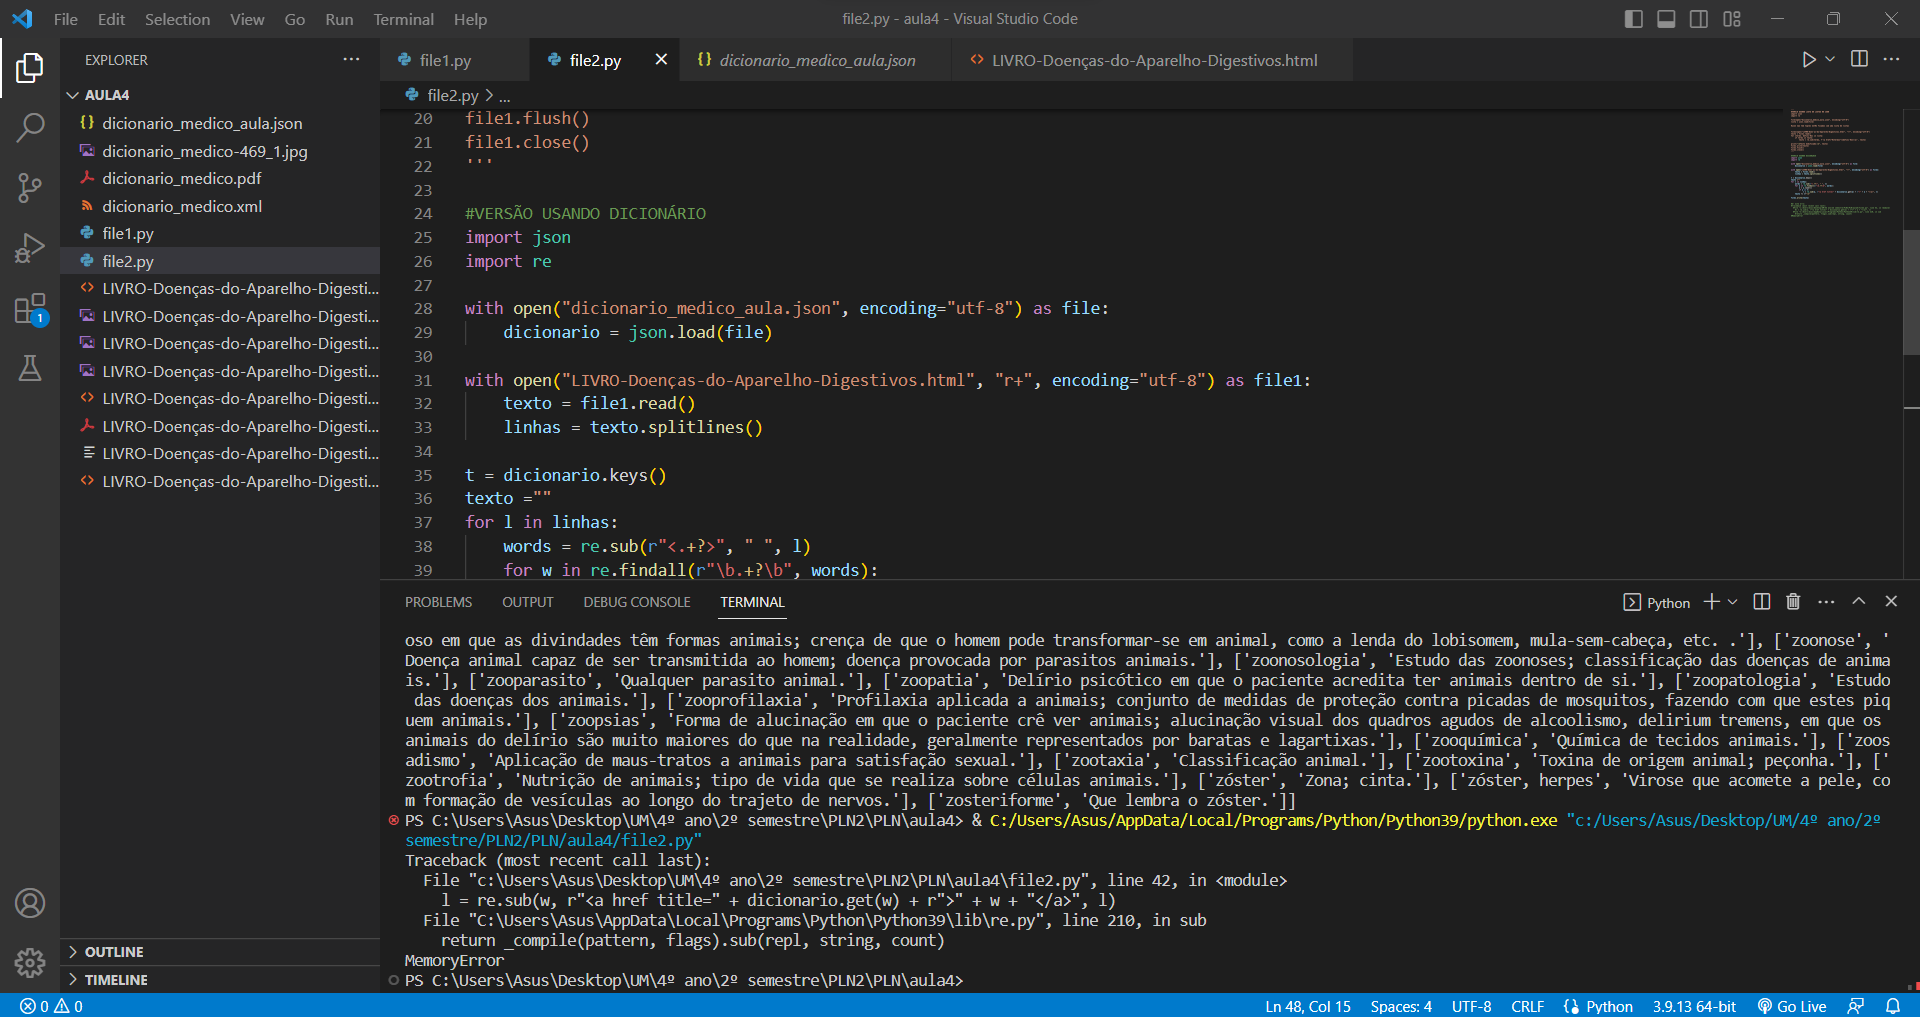
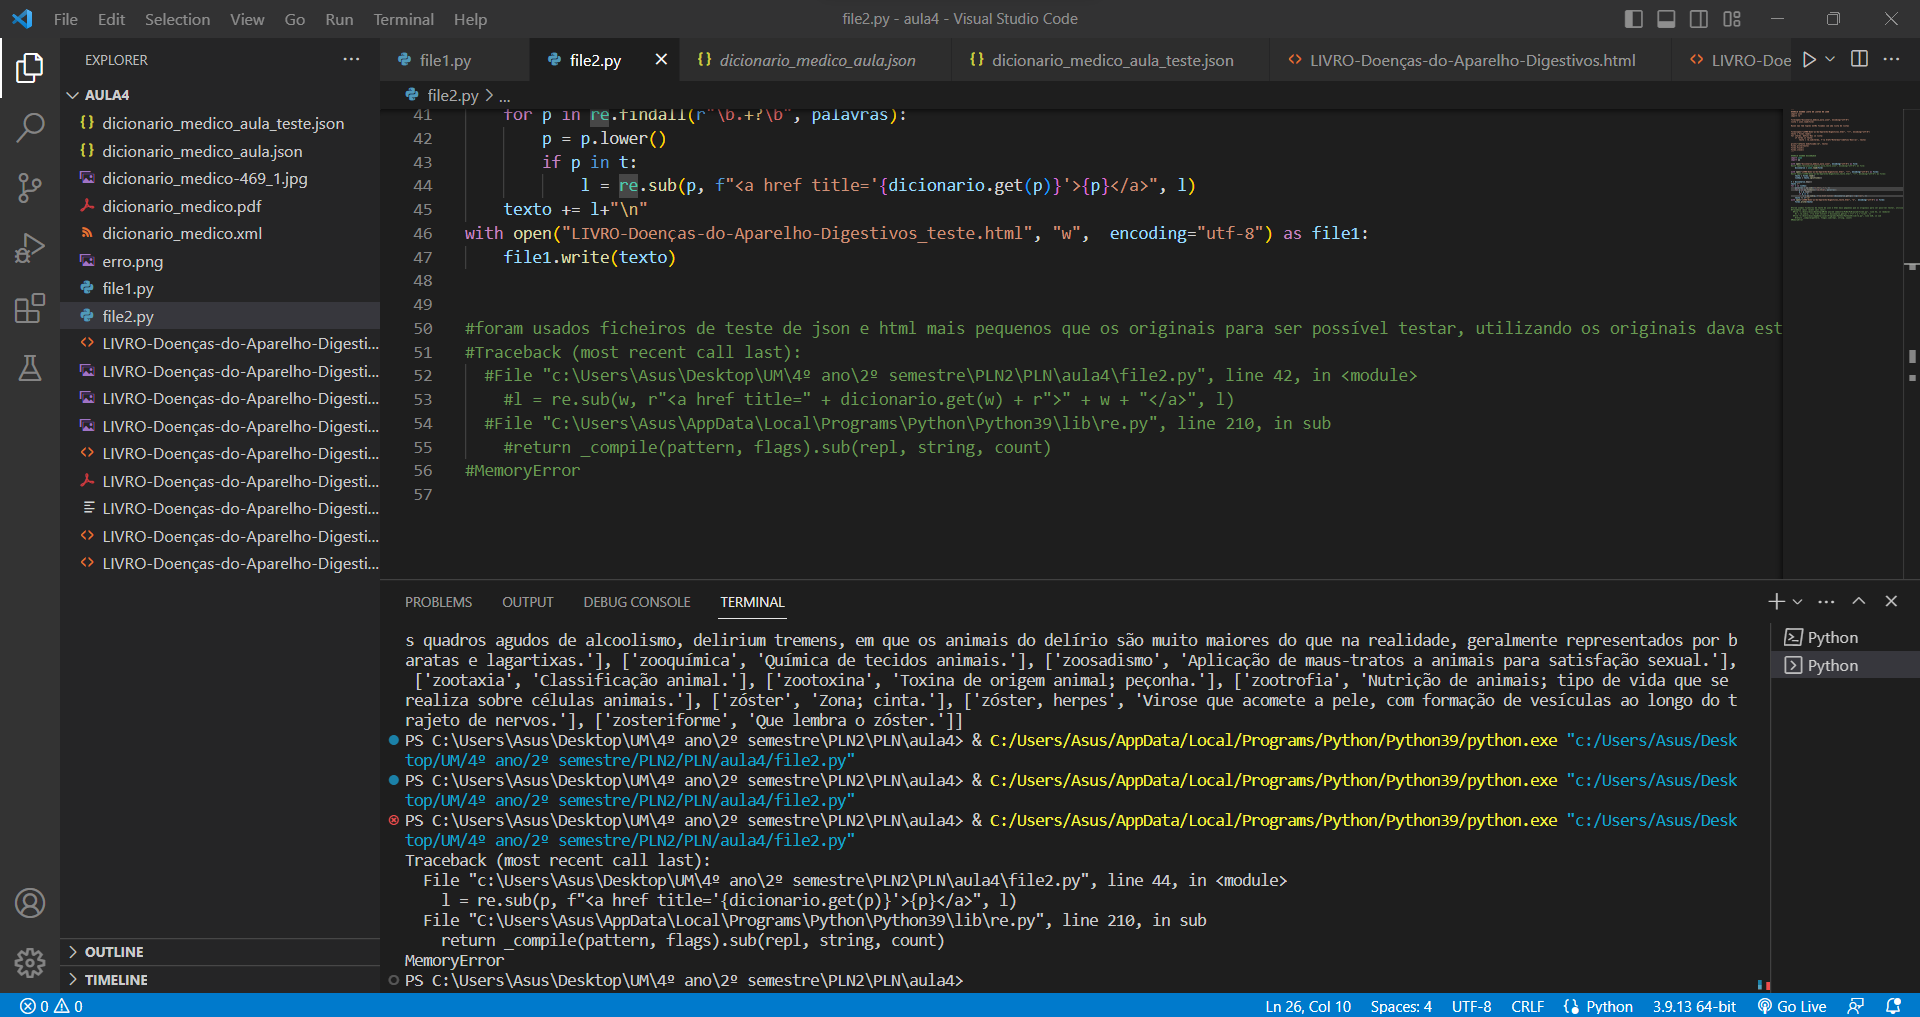
tpc4

diff --git a/aula4/LIVRO-Doenças-do-Aparelho-Digestivos_teste.html b/aula4/LIVRO-Doenças-do-Aparelho-Digestivos_teste.html
@@ -1,0 +1,165 @@
+<!DOCTYPE html><html>
+<head>
+<title></title>
+<style type="text/css">
+<!--
+.xflip {
+    -moz-transform: scaleX(-1);
+    -webkit-transform: scaleX(-1);
+    -o-transform: scaleX(-1);
+    transform: scaleX(-1);
+    filter: fliph;
+}
+.yflip {
+    -moz-transform: scaleY(-1);
+    -webkit-transform: scaleY(-1);
+    -o-transform: scaleY(-1);
+    transform: scaleY(-1);
+    filter: flipv;
+}
+.xyflip {
+    -moz-transform: scaleX(-1) scaleY(-1);
+    -webkit-transform: scaleX(-1) scaleY(-1);
+    -o-transform: scaleX(-1) scaleY(-1);
+    transform: scaleX(-1) scaleY(-1);
+    filter: fliph + flipv;
+}
+-->
+</style>
+</head>
+<body>
+<a name=1></a><img src="LIVRO-Doenças-do-Aparelho-Digestivo-1_1.jpg"/><br/>
+<img src="LIVRO-Doenças-do-Aparelho-Digestivo-1_2.jpg"/><br/>
+<hr/>
+<a name=2></a><b>DOENÇAS</b><br/>
+<b>DO</b><br/>
+<b>APARELHO DIGESTIVO</b><br/>
+2ª EDIÇÃO<br/>
+DINIZ DE FREITAS<br/>
+<i>Professor Catedrático de Gastrenterologia da</i><br/>
+<i>Faculdade de Medicina de Coimbra</i><br/>
+<i>Director do Serviço de Gastrenterologia dos</i><br/>
+<i>Hospitais da Universidade de Coimbra</i><br/>
+<i>Director do Centro de Gastrenterologia&#160;</i><br/>
+<i>da Universidade de Coimbra</i><br/>
+Coimbra 2002<br/>
+<hr/>
+<a name=3></a><b>Edição e Distribuição<br/></b>AstraZeneca - Produtos Farmacêuticos Lda<br/>Rua Humberto Madeira 7 -&#160;Valejas<br/>2745-663 Barcarena<br/>Telf 21 434 61 00 &#160;Fax 21 434 61 92<br/>
+<b>Impressão e&#160;Acabamento&#160;</b>- Rabiscos de Luz<br/>
+<hr/>
+<a name=4></a>A&#160;minha Mulher e a meus Filhos&#160;<br/>
+A&#160;minha Família<br/>
+A&#160;meus Mestres<br/>
+Ao&#160;Serviço de Gastrenterologia&#160;<br/>
+dos Hospitais da Universidade de Coimbra<br/>
+A&#160;meus Discípulos&#160;<br/>
+A&#160;meus Condiscípulos e&#160;Amigos<br/>
+<b>3</b><br/>
+<hr/>
+<a name=5></a><i>Índice</i><br/>
+<b>ÍNDICE</b><br/>
+Prefácio&#160;. . . . . . . . . . . . . . . . . . . . . . . . . . . . . . . . . . . . . . . . . . . . . . . . . . 9<br/>Introdução&#160;&#160;&#160;. . . . . . . . . . . . . . . . . . . . . . . . . . . . . . . . . . . . . . . . . . . . . . 11<br/>
+<b>SECÇÃO I&#160;</b><br/>
+<b>ESÓFAGO</b><br/>
+<b>CAPÍTULO I</b><br/>
+Pertubações&#160;Motoras&#160;do&#160;Esófago&#160;&#160;&#160;. . . . . . . . . . . . . . . . . . . . . . . . . . . . . . . . 15<br/>
+<b>CAPÍTULO II</b><br/>
+Doença&#160;do&#160;Refluxo&#160;Gastro-Esofágico&#160;&#160;&#160;. . . . . . . . . . . . . . . . . . . . . . . . . . . . . . 31&#160;&#160;<br/>
+<b>CAPÍTULO III</b><br/>
+Tumores&#160;do&#160;Esófago&#160;&#160;&#160;. . . . . . . . . . . . . . . . . . . . . . . . . . . . . . . . . . . . . . . . . 73<br/>
+<b>CAPÍTULO IV</b><br/>
+Outras&#160;Doenças&#160;do&#160;Esófago&#160;&#160;&#160;. . . . . . . . . . . . . . . . . . . . . . . . . . . . . . . . . . . . 93<br/>
+<b>SECÇÃO II&#160;</b><br/>
+<b>ESTÔMAGO E DUODENO</b><br/>
+<b>CAPÍTULO V</b><br/>
+Infecção&#160;pelo&#160;Helicobacter&#160;Pylori&#160;&#160;. . . . . . . . . . . . . . . . . . . . . . . . . . . . . . . . 105<br/>
+<b>CAPÍTULO VI</b><br/>
+Gastrite&#160;&#160;&#160;. . . . . . . . . . . . . . . . . . . . . . . . . . . . . . . . . . . . . . . . . . . . . . . . . . 131<br/>
+<b>CAPÍTULO VII</b><br/>
+Dispepsia&#160;&#160;&#160;. . . . . . . . . . . . . . . . . . . . . . . . . . . . . . . . . . . . . . . . . . . . . . . . 153<br/>
+<b>CAPÍTULO VIII</b><br/>
+Úlcera&#160;Péptica&#160;&#160;&#160;. . . . . . . . . . . . . . . . . . . . . . . . . . . . . . . . . . . . . . . . . . . . . 179<br/>
+<b>CAPÍTULO IX</b><br/>
+Tumores&#160;do&#160;Estômago&#160;&#160;&#160;. . . . . . . . . . . . . . . . . . . . . . . . . . . . . . . . . . . . . . . 215<br/>
+<b>5</b><br/>
+<hr/>
+<a name=6></a><i>Doenças do Aparelho Digestivo</i><br/>
+<b>SECÇÃO III</b><br/>
+<b>INTESTINO</b><br/>
+<b>CAPÍTULO X</b><br/>
+Síndromes&#160;de&#160;Má&#160;Absorção&#160;&#160;&#160;. . . . . . . . . . . . . . . . . . . . . . . . . . . . . . . . . . . 245<br/>
+<b>CAPÍTULO XI</b><br/>
+Doença&#160;Celíaca&#160;&#160;&#160;. . . . . . . . . . . . . . . . . . . . . . . . . . . . . . . . . . . . . . . . . . . . 265<br/>
+<b>CAPÍTULO XII</b><br/>
+Intolerância&#160;à&#160;Lactose&#160;&#160;&#160;. . . . . . . . . . . . . . . . . . . . . . . . . . . . . . . . . . . . . . . 281<br/>
+<b>CAPÍTULO XIII</b><br/>
+Infecções&#160;Intestinais&#160;&#160;&#160;. . . . . . . . . . . . . . . . . . . . . . . . . . . . . . . . . . . . . . . . 287<br/>
+<b>CAPÍTULO XIV</b><br/>
+Parasitoses&#160;Intestinais&#160;&#160;&#160;. . . . . . . . . . . . . . . . . . . . . . . . . . . . . . . . . . . . . . . 315<br/>
+<b>CAPÍTULO XV</b><br/>
+Isquémia&#160;Intestinal&#160;&#160;&#160;. . . . . . . . . . . . . . . . . . . . . . . . . . . . . . . . . . . . . . . . . 331<br/>
+<b>CAPÍTULO XVI</b><br/>
+Doença&#160;Inflamatória&#160;Intestinal&#160;&#160;&#160;. . . . . . . . . . . . . . . . . . . . . . . . . . . . . . . . . 347<br/>
+<b>CAPÍTULO XVII</b><br/>
+Síndrome&#160;do&#160;Cólon&#160;Irritável&#160;&#160;&#160;. . . . . . . . . . . . . . . . . . . . . . . . . . . . . . . . . . . 387<br/>
+<b>CAPÍTULO XVIII</b><br/>
+Doença&#160;Diverticular&#160;do&#160;Colón&#160;&#160;&#160;. . . . . . . . . . . . . . . . . . . . . . . . . . . . . . . . . . 407<br/>
+<b>CAPÍTULO XIX</b><br/>
+Pólipos&#160;e&#160;Polipose&#160;do&#160;Cólon&#160;e&#160;Recto&#160;&#160;. . . . . . . . . . . . . . . . . . . . . . . . . . . . . 419<br/>
+<b>CAPÍTULO XX</b><br/>
+Tumores&#160;do&#160;Cólon&#160;e&#160;Recto&#160;&#160;&#160;. . . . . . . . . . . . . . . . . . . . . . . . . . . . . . . . . . . . 435<br/>
+<b>6</b><br/>
+<hr/>
+<a name=7></a><i>Índice</i><br/>
+<b>SECÇÃO IV</b><br/>
+<b>FÍGADO</b><br/>
+<b>CAPÍTULO XXI</b><br/>
+Insuficiência&#160;Hepática&#160;Aguda&#160;&#160;&#160;. . . . . . . . . . . . . . . . . . . . . . . . . . . . . . . . . . 463<br/>
+<b>CAPÍTULO XXII</b><br/>
+Hepatite&#160;Viral&#160;Aguda&#160;&#160;&#160;. . . . . . . . . . . . . . . . . . . . . . . . . . . . . . . . . . . . . . . . 477<br/>
+<b>CAPÍTULO XXIII</b><br/>
+Hepatite&#160;Viral&#160;Crónica&#160;&#160;&#160;. . . . . . . . . . . . . . . . . . . . . . . . . . . . . . . . . . . . . . . 495<br/>
+<b>CAPÍTULO XXIV</b><br/>
+Doença&#160;Hepática&#160;Alcoólica&#160;&#160;&#160;. . . . . . . . . . . . . . . . . . . . . . . . . . . . . . . . . . . . 509<br/>
+<b>CAPÍTULO XXV</b><br/>
+Hepatotoxicidade&#160;por&#160;Drogas&#160;&#160;&#160;. . . . . . . . . . . . . . . . . . . . . . . . . . . . . . . . . . 525<br/>
+<b>CAPÍTULO XXVI</b><br/>
+Cirrose&#160;Hepática&#160;&#160;&#160;. . . . . . . . . . . . . . . . . . . . . . . . . . . . . . . . . . . . . . . . . . . 537<br/>
+<b>CAPÍTULO XXVII</b><br/>
+Hipertensão&#160;Portal&#160;&#160;&#160;. . . . . . . . . . . . . . . . . . . . . . . . . . . . . . . . . . . . . . . . . . 551<br/>
+<b>CAPÍTULO XXVIII</b><br/>
+Ascite&#160;e&#160;Peritonite&#160;Bacteriana&#160;Espontânea&#160;&#160;&#160;. . . . . . . . . . . . . . . . . . . . . . . . . 575<br/>
+<b>CAPÍTULO XXIX</b><br/>
+Complicações&#160;Sistémicas&#160;da&#160;Doença&#160;Hepática&#160;&#160;&#160;. . . . . . . . . . . . . . . . . . . . . . 593<br/>
+<b>CAPÍTULO XXX</b><br/>
+Doenças&#160;Hepáticas&#160;Auto-Imunes&#160;&#160;&#160;. . . . . . . . . . . . . . . . . . . . . . . . . . . . . . . . 619<br/>
+<b>CAPÍTULO XXXI</b><br/>
+Doenças&#160;Metabólicas&#160;e&#160;Genéticas&#160;&#160;&#160;. . . . . . . . . . . . . . . . . . . . . . . . . . . . . . . 647<br/>
+<b>CAPÍTULO XXXII</b><br/>
+Tumores&#160;Hépaticos&#160;&#160;&#160;. . . . . . . . . . . . . . . . . . . . . . . . . . . . . . . . . . . . . . . . . 665<br/>
+<b>7</b><br/>
+<hr/>
+<a name=8></a><i>Doenças do Aparelho Digestivo</i><br/>
+<b>SECÇÃO V&#160;</b><br/>
+<b>VESÍCULA&#160;E&#160;VIAS&#160;BILIARES&#160;</b><br/>
+<b>CAPÍTULO XXXIII</b><br/>
+Litíase&#160;Biliar&#160;&#160;&#160;. . . . . . . . . . . . . . . . . . . . . . . . . . . . . . . . . . . . . . . . . . . . . . 685<br/>
+<b>CAPÍTULO XXXIV</b><br/>
+Tumores&#160;da&#160;Vesícula,&#160;dos&#160;Ductos&#160;Biliares&#160;e&#160;da&#160;Ampola&#160;de&#160;Vater&#160;&#160;. . . . . . . . . . 703<br/>
+<b>SECÇÃO VI&#160;</b><br/>
+<b>PÂNCREAS</b><br/>
+<b>CAPÍTULO XXXVI</b><br/>
+Pancreatite&#160;Aguda&#160;&#160;&#160;. . . . . . . . . . . . . . . . . . . . . . . . . . . . . . . . . . . . . . . . . . 717<br/>
+<b>CAPÍTULO XXXVI</b><br/>
+Pancreatite&#160;Crónica&#160;&#160;&#160;. . . . . . . . . . . . . . . . . . . . . . . . . . . . . . . . . . . . . . . . . 753<br/>
+<b>CAPÍTULO XXXVII</b><br/>
+Tumores&#160;do&#160;Pâncreas&#160;&#160;&#160;. . . . . . . . . . . . . . . . . . . . . . . . . . . . . . . . . . . . . . . 773<br/>
+<b>8</b><br/>
+<hr/>
+<a name=38></a><i>Doenças do Aparelho Digestivo</i><br/>
+atraso no esvaziamento gástrico, consequência da gastrite provocada pela bactéria.<br/>
+Pelo contrário, há evidência experimental e epidemiológica que suporta um efeito pro-<br/>tector do H. pylori. Estudos epidemiológicos demonstram que quando são elevadas<br/>as taxas de infecção pelo H. pylori Cag&#160;A+ (por ex. na China), é baixa a corresponden-<br/>te incidência de esofagite (&lt;5%).&#160;Além disso, as complicações da DRGE, designada-<br/>mente o Barrett e o adenocarcinoma esofágico, são significativamente mais comuns<br/>em indivíduos da raça branca, em comparação com indivíduos de raça negra ou asiá-<br/>tica, apesar da maior prevalência do H. pylori na Ásia. O H. pylori conferiria protecção<br/>contra a DRGE porque: (1) a infecção Hp induz diminuição da <a href title='Qualidade das substâncias que dão impressão picante e acre ao gosto; excesso de teor ácido; propriedade de um corpo libertar íons H.'>acidez</a> gástrica pela liber-<br/>tação de amónia e (2) a infecção Hp, especialmente com estirpes Cag&#160;A+, pode indu-<br/>zir quadros severos de gastrite no corpo do estômago, condicionando hipocloridria.<br/>De&#160;facto, alguns autores verificaram aumento na incidência de DRGE anos após a erra-<br/>dicação do H. pylori (Labenz et al).&#160;A&#160;questão da correlação entre a infecção Hp e a<br/>DRGE continua por esclarecer, pelo que se justificam mais trabalhos científicos nesta<br/>área.<br/>
+<b>4. PATOFISIOLOGIA</b><br/>
+A&#160;DRGE é uma doença <a href title='Substância que na presença da água fornece exclusivamente como cátion (íon positivo) o hidrogênio (H).'><a href title='Substância que na presença da água fornece exclusivamente como cátion (íon positivo) o hidrogênio (H).'><a href title='Substância que na presença da água fornece exclusivamente como cátion (íon positivo) o hidrogênio (H).'><a href title='Substância que na presença da água fornece exclusivamente como cátion (íon positivo) o hidrogênio (H).'>ácido</a></a></a></a>-péptica ou uma perturbação motora do esófago? Na&#160;rea-<br/>lidade, o <a href title='Substância que na presença da água fornece exclusivamente como cátion (íon positivo) o hidrogênio (H).'><a href title='Substância que na presença da água fornece exclusivamente como cátion (íon positivo) o hidrogênio (H).'><a href title='Substância que na presença da água fornece exclusivamente como cátion (íon positivo) o hidrogênio (H).'><a href title='Substância que na presença da água fornece exclusivamente como cátion (íon positivo) o hidrogênio (H).'>ácido</a></a></a></a> clorídrico é o principal agente agressor e o responsável pelas lesões<br/>da mucosa esofágica na doença de refluxo.&#160;Contudo, a secreção ácida gástrica é nor-<br/>mal na maioria dos doentes com DRGE.&#160;A&#160;razão porque o suco gástrico atinge o esó-<br/>fago, radica numa anomalia motora do esfincter esofágico inferior (EEI). Por outro<br/>lado, alterações na peristalse esofágica, quando existem, possibilitam que o <a href title='Substância que na presença da água fornece exclusivamente como cátion (íon positivo) o hidrogênio (H).'><a href title='Substância que na presença da água fornece exclusivamente como cátion (íon positivo) o hidrogênio (H).'><a href title='Substância que na presença da água fornece exclusivamente como cátion (íon positivo) o hidrogênio (H).'><a href title='Substância que na presença da água fornece exclusivamente como cátion (íon positivo) o hidrogênio (H).'>ácido</a></a></a></a> clo-<br/>rídrico e outros agentes agressivos permaneçam no esófago por longos períodos de<br/>tempo, induzindo lesões da mucosa. Deste modo, ainda que o <a href title='Substância que na presença da água fornece exclusivamente como cátion (íon positivo) o hidrogênio (H).'><a href title='Substância que na presença da água fornece exclusivamente como cátion (íon positivo) o hidrogênio (H).'><a href title='Substância que na presença da água fornece exclusivamente como cátion (íon positivo) o hidrogênio (H).'><a href title='Substância que na presença da água fornece exclusivamente como cátion (íon positivo) o hidrogênio (H).'>ácido</a></a></a></a> clorídrico seja<br/>de facto o factor mais importante na agressão esofágica, as anomalias motoras do EEI<br/>e do esófago são factores etiológicos primários e fundamentais na compreensão da<br/>fisiopatologia da DRGE. Está demonstrado, por outro lado, que uma diminuição da<br/>resistência da mucosa esofágica pode contribuir, nalguns casos de forma significativa,<br/>para o desenvolvimento do processo lesional que caracteriza a DRGE. Nestes termos,<br/>a perspectiva da patofisiologia desta doença deve ser encarada em duas vertentes:<br/>em primeiro lugar, é essencial analisar o comportamento da barreira anti-refluxo e dos<br/>mecanismos de “clearance” esofágica; e em segundo lugar, importa reflectir sobre o<br/>papel desempenhado pela resistência tissular da parede esofágica.<br/>
+<b>38</b><br/>
+<hr/>

diff --git a/aula4/file2.py b/aula4/file2.py
@@ -1,51 +1,29 @@
-'''
-#VERSÃO USANDO LISTA DE LISTAS NO JSON
 import json
 import re
 
-file=open("dicionario_medico_aula.json", encoding="utf-8")
-lista = json.load(file)
-
-#json nao tem tuples então ficamos com uma lista de listas
-
-
-file1=open("LIVRO-Doenças-do-Aparelho-Digestivos.html", "r+", encoding="utf-8")
-texto = file1.read()
-for [termo, definição] in lista:
-    if termo in texto:
-        texto = re.sub(termo, f'<a href="#{termo}">{definição}</a>', texto)
-
-print("\nTexto modificado:\n", texto)
-file1.write(texto)
-file1.flush() 
-file1.close()
-'''
-
-#VERSÃO USANDO DICIONÁRIO
-import json
-import re
-
-with open("dicionario_medico_aula.json", encoding="utf-8") as file:
+#with open("dicionario_medico_aula.json", encoding="utf-8") as file:
+with open("dicionario_medico_aula_teste.json", encoding="utf-8") as file:
     dicionario = json.load(file)
 
-with open("LIVRO-Doenças-do-Aparelho-Digestivos.html", "r+", encoding="utf-8") as file1:
+#with open("LIVRO-Doenças-do-Aparelho-Digestivos.html", "r+", encoding="utf-8") as file1:
+with open("LIVRO-Doenças-do-Aparelho-Digestivos_teste.html", "r+", encoding="utf-8") as file1:
     texto = file1.read()
     linhas = texto.splitlines()
 
 t = dicionario.keys()
 texto =""
 for l in linhas:
-    words = re.sub(r"<.+?>", " ", l) 
-    for w in re.findall(r"\b.+?\b", words): 
-        w = w.lower()
-        if w in t:
-            l = re.sub(w, r"<a href title=" + dicionario.get(w) + r">" + w + "</a>", l)
+    palavras = re.sub(r"<.+?>", " ", l) 
+    for p in re.findall(r"\b.+?\b", palavras): 
+        p = p.lower()
+        if p in t:
+            l = re.sub(p, f"<a href title='{dicionario.get(p)}'>{p}</a>", l)
     texto += l+"\n"
+with open("LIVRO-Doenças-do-Aparelho-Digestivos_teste.html", "w",  encoding="utf-8") as file1:
+    file1.write(texto)
 
-file1.write(texto)
 
-
-#dá este erro:
+#foram usados ficheiros de teste de json e html mais pequenos que os originais para ser possível testar, utilizando os originais dava este erro:
 #Traceback (most recent call last):
   #File "c:\Users\Asus\Desktop\UM\4º ano\2º semestre\PLN2\PLN\aula4\file2.py", line 42, in <module>
     #l = re.sub(w, r"<a href title=" + dicionario.get(w) + r">" + w + "</a>", l)
